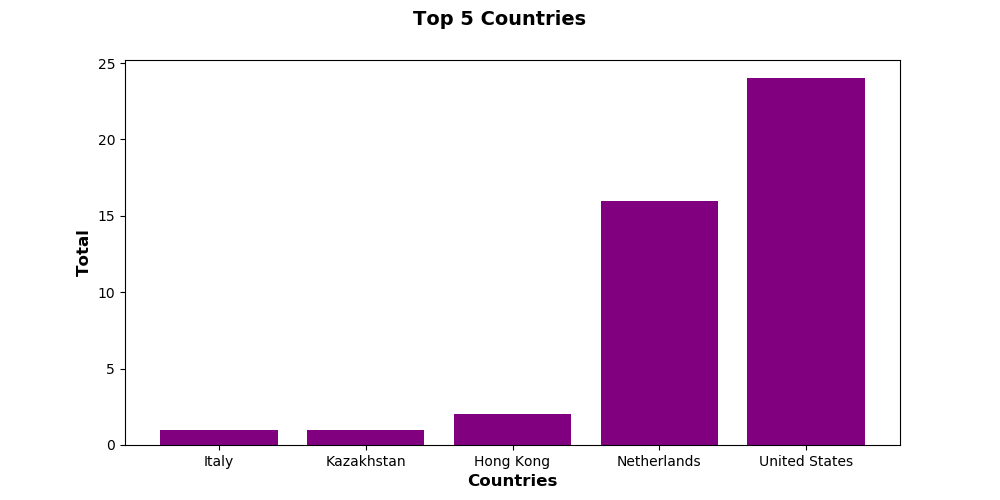
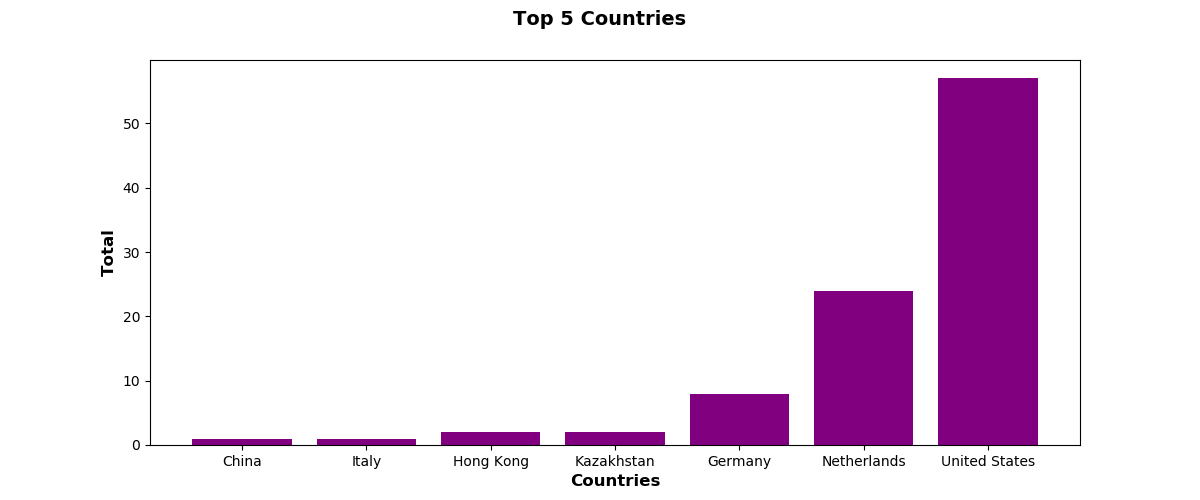
Main menu configured

diff --git a/html_parser.py b/html_parser.py
@@ -88,7 +88,7 @@ def show_destination_port():
     plt.xlabel('Destination Ports', fontsize=10, fontweight='bold')             # X axis titles
     plt.ylabel('Total', fontsize=10, fontweight='bold')                         # Y axis titles
     dportfig = plt.gcf()                                                        # Figure is formatted
-    dportfig.set_size_inches(10, 5)                                             # Figure is sized
+    dportfig.set_size_inches(12, 5)                                             # Figure is sized
     dportfig.savefig(os.path.join('http/')+"http_dport.png")                    # Figure is saved
     plt.close()                                                                 # Graph is closed
 
@@ -120,7 +120,7 @@ def show_destination_ip():
     plt.xlabel('IPs', fontsize=10, fontweight='bold')                           # X axis titles
     plt.ylabel('Total', fontsize=10, fontweight='bold')                         # Y axis titles
     dportfig = plt.gcf()                                                        # Figure is formatted
-    dportfig.set_size_inches(10, 5)                                             # Figure is sized
+    dportfig.set_size_inches(12, 5)                                             # Figure is sized
     dportfig.savefig(os.path.join('http/')+"http_destip.png")                   # Figure is saved
     plt.close()                                                                 # Graph is closed
 
@@ -225,7 +225,7 @@ def show_country():
     plt.xlabel('Countries', fontsize=12, fontweight='bold')
     plt.ylabel('Total', fontsize=12, fontweight='bold')
     dportfig = plt.gcf()
-    dportfig.set_size_inches(10, 5)
+    dportfig.set_size_inches(12, 5)
     dportfig.savefig(os.path.join('http/')+"http_country.png")
     plt.close()
 
@@ -235,7 +235,7 @@ def map_country():
     m = Basemap()
     m.bluemarble()
     md = plt.gcf()
-    md.set_size_inches(10, 8)
+    md.set_size_inches(12, 8)
     md.savefig(os.path.join('http/')+"http_map_country.png")
     plt.close()
 
@@ -317,7 +317,7 @@ def map_cities():
         plt.text(xpt, ypt, city, color='w')             # Coloured in white text
 
     md = plt.gcf()                                                  # Format the figure
-    md.set_size_inches(10, 6)                                       # Set the size of the figure
+    md.set_size_inches(12, 6)                                       # Set the size of the figure
     md.savefig(os.path.join('http/')+"http_map_cities.png")         # Save the figure
     plt.title('Top Attacking Cities Map')                           # Set the title
     plt.close()                                                     # Close the graph

diff --git a/weird_parser.py b/weird_parser.py
@@ -59,7 +59,7 @@ def show_destination_port():
             yVals.append(value)             # The y value gets added
 
     plt.bar(xVals, yVals, color='green')    # The figure is plotted
-    plt.suptitle('Top 10 Destination Ports', fontsize=14, fontweight='bold')    # Title is set
+    plt.suptitle('Top Destination Ports', fontsize=14, fontweight='bold')    # Title is set
     plt.xlabel('Destination Ports', fontsize=10, fontweight='bold')             # X axis titles
     plt.ylabel('Total', fontsize=10, fontweight='bold')                         # Y axis titles
     dportfig = plt.gcf()                                                        # Figure is formatted
@@ -91,7 +91,7 @@ def show_destination_ip():
             yVals.append(value)             # The y value gets added
 
     plt.bar(xVals, yVals)                   # The figure is plotted
-    plt.suptitle('Top 10 Destination IPs', fontsize=14, fontweight='bold')      # Title is set
+    plt.suptitle('Top Destination IPs', fontsize=14, fontweight='bold')      # Title is set
     plt.xlabel('IPs', fontsize=10, fontweight='bold')                           # X axis titles
     plt.ylabel('Total', fontsize=10, fontweight='bold')                         # Y axis titles
     dportfig = plt.gcf()                                                        # Figure is formatted

diff --git a/main_menu.py b/main_menu.py
@@ -1,16 +1,27 @@
 from Tkinter import *
 import Tkinter, Tkconstants, tkFileDialog
 import html_parser
+import weird_parser
 
 
 def main():
     root = Tk()
-    root.filename = tkFileDialog.askopenfilename(initialdir="/", title="Select file", filetypes=(("jpeg files","*.jpg"), ("all files","*.*")))
-    print (root.filename)
+    root.http_file = tkFileDialog.askopenfilename(initialdir="/", title="Select file",
+                                                  filetypes=(("log files", "*.log"),
+                                                             ("all files", "*.*")))
+    print (root.http_file)
+
+    root.weird_file = tkFileDialog.askopenfilename(initialdir="/", title="Select file",
+                                                   filetypes=(("log files", "*.log"),
+                                                              ("all files", "*.*")))
+    print (root.weird_file)
 
     #Parser Code
-    html_parser.read_file(root.filename)
+    html_parser.read_file(root.http_file)
     html_parser.main()
+    weird_parser.read_file(root.weird_file)
+    weird_parser.main()
+
 
 if __name__ == '__main__':
     main()
